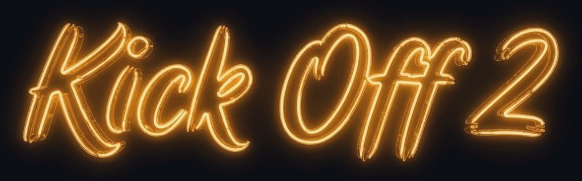
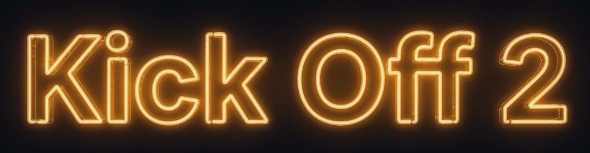
Revert neon wordmark trial; drop Exo wordmark hover bloom.
Restore the text wordmark and keep unused PNG experiments under images/wordmark for later.

diff --git a/site/public_html/stylesheets/theme.css b/site/public_html/stylesheets/theme.css
@@ -331,7 +331,7 @@ body.k2-site .k2-hub-chapter__list li::marker {
 	gap: 16px;
 	max-width: 1200px;
 	margin: 0 auto;
-	padding: 10px 0 8px;
+	padding: 18px 0 14px;
 	border-bottom: 1px solid var(--k2-border-subtle);
 	/* Own stacking context above hub bar (1210) + jukebox (1200) so the header search
 	   dropdown is never painted behind page chrome below it. */
@@ -348,38 +348,11 @@ body.k2-site .k2-hub-chapter__list li::marker {
 	letter-spacing: 0.03em;
 }
 
-.k2-wordmark__img {
-	display: none;
-	height: 49px;
-	width: auto;
-	vertical-align: middle;
-}
-
-/* Neon image trial — amber asset only; other tints keep Exo text wordmark */
-.k2-wordmark--neon-trial .k2-wordmark__link {
-	display: inline-flex;
-	align-items: center;
-}
-
-html[data-k2-accent="amber"] .k2-wordmark--neon-trial .k2-wordmark__main,
-html:not([data-k2-accent]) .k2-wordmark--neon-trial .k2-wordmark__main {
-	display: none;
-}
-
-html[data-k2-accent="amber"] .k2-wordmark--neon-trial .k2-wordmark__img,
-html:not([data-k2-accent]) .k2-wordmark--neon-trial .k2-wordmark__img {
-	display: block;
-}
-
-body.k2-site a.k2-wordmark__link:hover .k2-wordmark__img,
-body.k2-site a.k2-wordmark__link:focus-visible .k2-wordmark__img {
-	filter: brightness(1.06);
-}
-
 .k2-wordmark__link {
 	color: inherit;
 	text-decoration: none;
 	font-weight: inherit;
+	cursor: pointer;
 }
 
 body.k2-site a.k2-wordmark__link,
@@ -399,24 +372,6 @@ body.k2-site a.k2-wordmark__link:focus-visible {
 		0 0 68px color-mix(in srgb, var(--k2-accent) 44%, transparent),
 		0 0 82px color-mix(in srgb, var(--k2-accent-glow) 58%, transparent);
 	filter: var(--k2-accent-bloom-filter);
-}
-
-/* Hover â€” same core + extra bloom (filter must repeat base drop-shadows) */
-body.k2-site a.k2-wordmark__link:hover .k2-wordmark__main,
-body.k2-site a.k2-wordmark__link:focus-visible .k2-wordmark__main {
-	color: var(--k2-accent);
-	text-shadow:
-		0 0 10px color-mix(in srgb, var(--k2-accent) 92%, transparent),
-		0 0 28px color-mix(in srgb, var(--k2-accent-glow) 88%, transparent),
-		0 0 50px color-mix(in srgb, var(--k2-accent-glow) 74%, transparent),
-		0 0 72px color-mix(in srgb, var(--k2-accent) 48%, transparent),
-		0 0 88px color-mix(in srgb, var(--k2-accent-glow) 64%, transparent),
-		0 0 96px color-mix(in srgb, var(--k2-accent-glow) 48%, transparent),
-		0 0 88px color-mix(in srgb, var(--k2-accent) 32%, transparent);
-	filter:
-		var(--k2-accent-bloom-filter)
-		drop-shadow(0 0 68px color-mix(in srgb, var(--k2-accent-glow) 46%, transparent))
-		drop-shadow(0 0 82px color-mix(in srgb, var(--k2-accent) 28%, transparent));
 }
 
 .k2-site-header__links {

diff --git a/site/public_html/includes/site_header.php b/site/public_html/includes/site_header.php
@@ -3,33 +3,16 @@
  * Shared site chrome — wordmark, realm switcher, header search.
  * Requires <html data-realm="online|amiga"> and body.k2-site on themed pages.
  * Tint boot from includes/theme_boot_head.php via k2_head.php; accent pills via realm-switch.js.
- *
- * Neon image wordmark trial: set $k2NeonWordmarkTrial = false to restore Exo 2 text only.
- * Amber asset only for now — other tints keep the text wordmark (CSS).
  */
 require_once $_SERVER['DOCUMENT_ROOT'] . '/includes/realm_switcher.php';
 $k2WordmarkHomeHref = htmlspecialchars($k2RealmHomeHref, ENT_QUOTES, 'UTF-8');
 $k2PageNavClass = isset($k2PageNavClass) ? trim((string) $k2PageNavClass) : '';
-$k2NeonWordmarkTrial = true;
-$k2WordmarkClass = 'k2-wordmark' . ($k2NeonWordmarkTrial ? ' k2-wordmark--neon-trial' : '');
-$k2NeonWordmarkSrc = '/images/wordmark/kick-off-2-amber.png';
-$k2NeonWordmarkVer = (int) @filemtime($_SERVER['DOCUMENT_ROOT'] . $k2NeonWordmarkSrc);
 ?>
 <header class="k2-site-header">
 	<div class="k2-site-header__brand">
-		<h1 class="<?php echo htmlspecialchars($k2WordmarkClass, ENT_QUOTES, 'UTF-8'); ?>">
+		<h1 class="k2-wordmark">
 			<a href="<?php echo $k2WordmarkHomeHref; ?>" class="k2-wordmark__link">
 				<span class="k2-wordmark__main">Kick Off 2</span>
-				<?php if ($k2NeonWordmarkTrial) { ?>
-				<img
-					class="k2-wordmark__img"
-					src="<?php echo htmlspecialchars($k2NeonWordmarkSrc . '?v=' . $k2NeonWordmarkVer, ENT_QUOTES, 'UTF-8'); ?>"
-					alt="Kick Off 2"
-					width="158"
-					height="49"
-					decoding="async"
-				/>
-				<?php } ?>
 			</a>
 		</h1>
 		<?php include $_SERVER['DOCUMENT_ROOT'] . '/includes/realm_switcher_nav.php'; ?>

diff --git a/PROJECT_MEMORY.md b/PROJECT_MEMORY.md
@@ -149,6 +149,8 @@
 
 | Date | Note |
 |------|------|
+| 2026-07-18 | **Wordmark hover bloom removed** — Exo neon stays at rest look; link still uses pointer cursor. |
+| 2026-07-18 | **Neon wordmark trial reverted** — back to Exo 2 text wordmark; header padding 18/14 and hub-bar top margin 16px restored. PNG experiments left under `images/wordmark/` unused. |
 | 2026-07-18 | **Neon wordmark trial** — amber Grok PNG at `images/wordmark/kick-off-2-amber.png`; `$k2NeonWordmarkTrial` in `site_header.php` (amber tint only; other tints keep Exo text). Set `false` to revert. |
 | 2026-07-18 | **Share cards** — OG/Twitter meta via `k2_social_meta.php` in `k2_head`; brand card `images/og/ratings-default.png` (1200×630); Status / Join / Amiga News / About overrides. |
 | 2026-07-18 | **Live hub Watch / Run split** — public Live tournaments: Watch table + invited **Run a tournament** → organizer CTA (no “Operators / password required” footnote). |

diff --git a/docs/design-direction.md b/docs/design-direction.md
@@ -203,7 +203,7 @@ Never use pixel/bitmap fonts for readable data.
 
 Current shared chrome:
 
-- `includes/site_header.php` for wordmark + **realm switcher** (`includes/realm_switcher.php`: Online � Amiga 500, beside wordmark) + cross-realm player search (`realm=all`, per-hit Online/Amiga label). Realm switch uses segment-outline active cell (site tint, not per-realm colours). **Default wordmark** = Exo 2 street-sign neon (`text-shadow` on `.k2-wordmark__main`). **Trial (Jul 2026):** `$k2NeonWordmarkTrial` in `site_header.php` swaps in Grok neon PNG for **amber** only (`images/wordmark/kick-off-2-amber.png`); other tints keep text. Set flag `false` to restore text-only.
+- `includes/site_header.php` for wordmark + **realm switcher** (`includes/realm_switcher.php`: Online � Amiga 500, beside wordmark) + cross-realm player search (`realm=all`, per-hit Online/Amiga label). Realm switch uses segment-outline active cell (site tint, not per-realm colours). Wordmark **always** street-sign neon (`text-shadow` layers on `.k2-wordmark__main`, px-capped and pleasant rather than foggy � avoid huge `calc()` blurs); **no hover bloom change** (pointer cursor only).
 - `includes/hub_nav.php` for Status / Activity / Leaderboards / Milestones / **Games** / Hall of Fame / Play & Setup (`games/recent.php` hub default; Recent · Highlights · All games sub-nav).
 - `includes/lb_nav.php` for leaderboard wing tabs.
 - `includes/player_nav.php` for player context tabs.